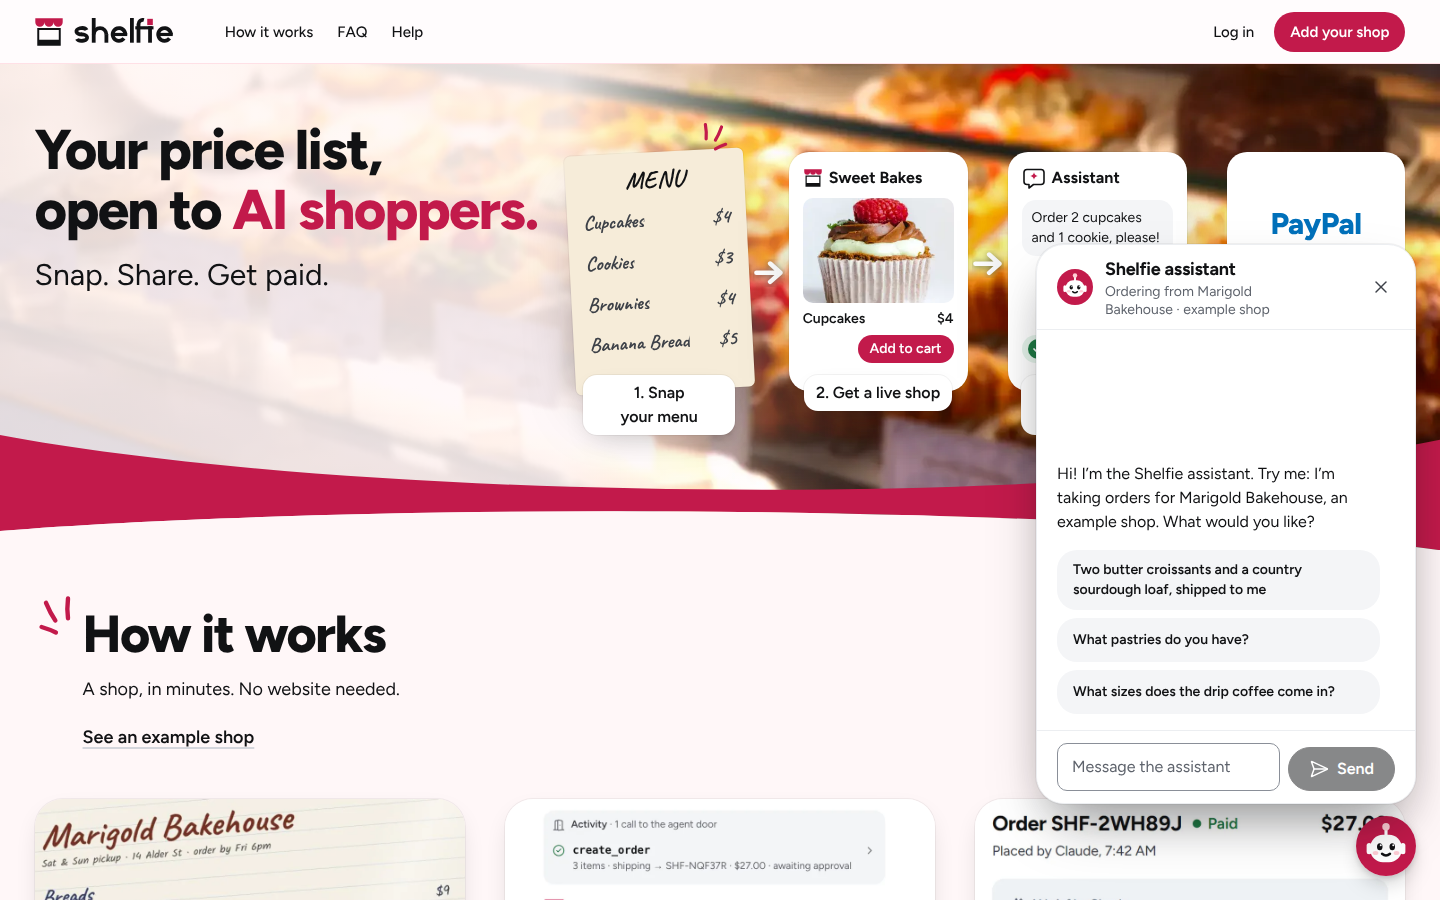
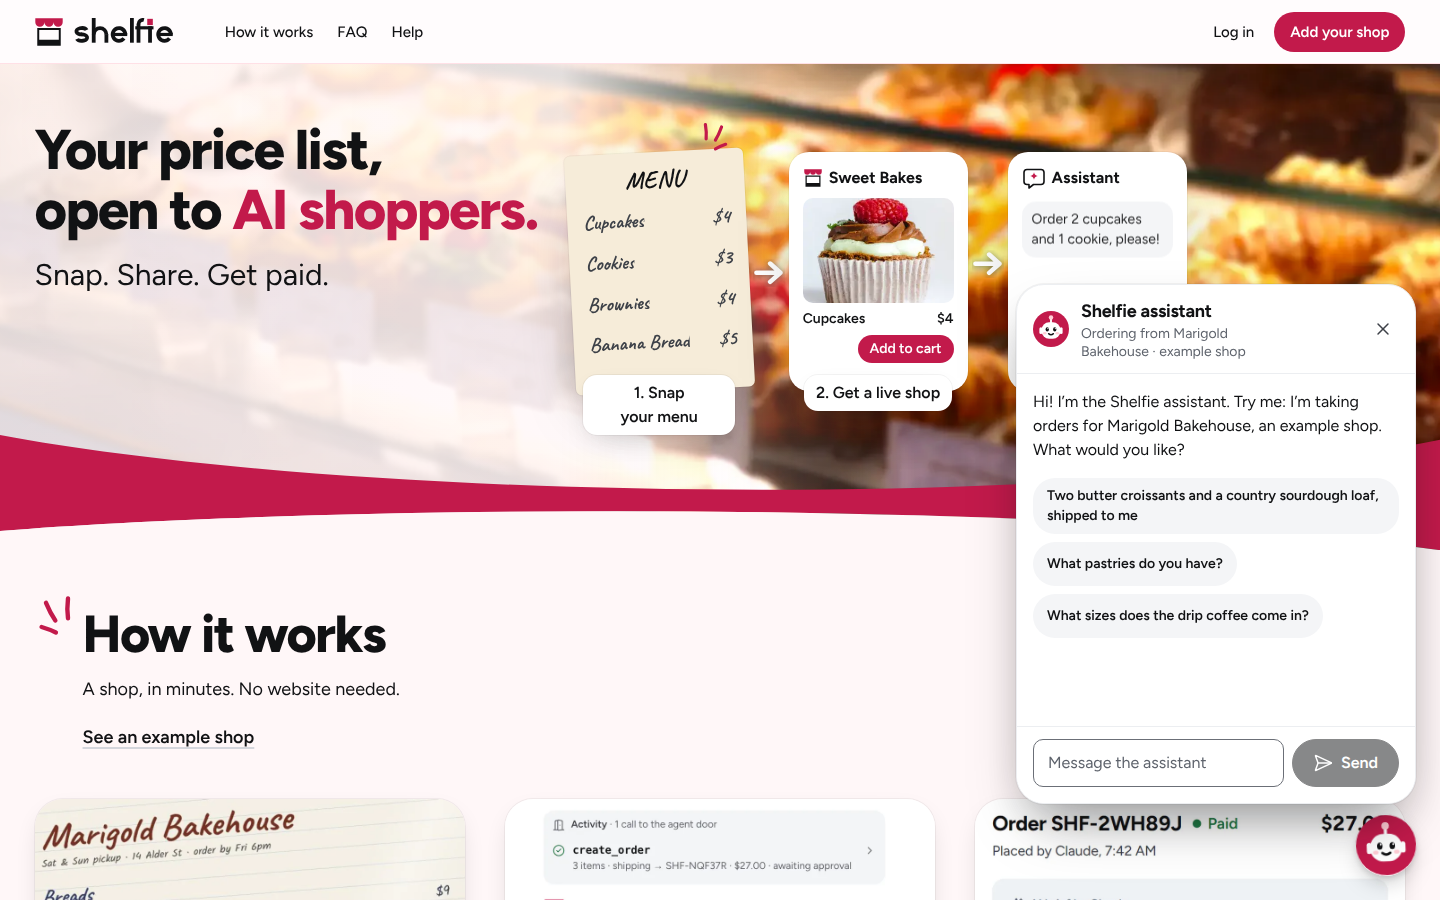
Home chat: proportion checks at 1024-1920 in e2e, measurements (docs/judge/chat-r8.md), after shots, decisions and DESIGN

diff --git a/e2e/home-chat.spec.ts b/e2e/home-chat.spec.ts
@@ -58,6 +58,40 @@ async function expectSoundClearOfLauncher(page: Page) {
   expect(hit).toBe(true);
 }
 
+/**
+ * The desktop panel's proportions: clear of the hero headline, the greeting at the top of the log, the starters as
+ * chips of at most two lines, the message box and Send on one row, and the panel on the launcher's right and bottom edges.
+ */
+async function expectBalancedPanel(page: Page) {
+  await page.waitForTimeout(400);
+  const m = await page.evaluate(() => {
+    const rect = (el: Element | null | undefined) => el!.getBoundingClientRect();
+    const panel = document.querySelector('[data-home-chat-panel]')!;
+    const p = rect(panel);
+    const h = rect(document.querySelector('h1'));
+    const header = rect(panel.querySelector('[data-assistant-header]'));
+    const greeting = rect(panel.querySelector('[data-assistant-log] p'));
+    const launcher = rect(document.querySelector('.home-chat-launcher'));
+    const box = rect(panel.querySelector('textarea'));
+    const send = rect(panel.querySelector('button[type="submit"]'));
+    const chips = [...panel.querySelectorAll('[data-starters] button')].map((b) => rect(b).height);
+    return {
+      overlap: !(p.right <= h.left || p.left >= h.right || p.bottom <= h.top || p.top >= h.bottom),
+      greetingGap: greeting.top - header.bottom,
+      rightEdges: [innerWidth - p.right, innerWidth - launcher.right],
+      oneRow: Math.abs(box.bottom - send.bottom) < 1 && send.left > box.right,
+      sendHeight: send.height,
+      tallestChip: Math.max(...chips),
+    };
+  });
+  expect(m.overlap).toBe(false);
+  expect(m.greetingGap).toBeLessThanOrEqual(20);
+  expect(m.rightEdges[0]).toBe(m.rightEdges[1]);
+  expect(m.oneRow).toBe(true);
+  expect(m.sendHeight).toBeGreaterThanOrEqual(44);
+  expect(m.tallestChip).toBeLessThanOrEqual(60);
+}
+
 test.describe('at 1440 px', () => {
   test.use({ viewport: DESKTOP });
 
@@ -81,8 +115,9 @@ test.describe('at 1440 px', () => {
     await expect(chat.getByRole('textbox', { name: 'Message to the assistant' })).toBeFocused();
     await expect(launcher.locator('[data-unread]')).toHaveCount(0);
     const box = await chat.boundingBox();
-    expect(Math.round(box!.width)).toBe(380);
-    expect(Math.round(box!.height)).toBe(560);
+    expect(Math.round(box!.width)).toBe(400);
+    expect(Math.round(box!.height)).toBe(520);
+    await expectBalancedPanel(page);
     await a11y(page);
 
     await page.keyboard.press('Escape');
@@ -144,7 +179,27 @@ test.describe('at 1440 px', () => {
     const box = await panel(page).boundingBox();
     expect(box!.y).toBeGreaterThanOrEqual(header!.y + header!.height);
     expect(await ctaClear()).toBe(true);
+    await expectBalancedPanel(page);
   });
+
+  for (const [width, height] of [[1024, 768], [1280, 800], [1920, 1080]] as const) {
+    test(`at ${width} x ${height} the panel keeps its proportions and stays clear of the headline`, async ({ page }) => {
+      await page.setViewportSize({ width, height });
+      await page.goto('/?chat=0');
+      await settle(page);
+      await page.getByRole('button', { name: LAUNCHER, exact: true }).click();
+      await expect(panel(page)).toBeVisible();
+      const box = await panel(page).boundingBox();
+      expect(Math.round(box!.width)).toBe(400);
+      expect(Math.round(box!.height)).toBe(520);
+      await expectBalancedPanel(page);
+      if (SHOTS && width !== 1024) {
+        await page.locator('textarea').blur();
+        await page.mouse.move(0, 0);
+        await page.screenshot({ path: `${SHOTS}/chat-${width}.png` });
+      }
+    });
+  }
 
   test('a starter goes to the assistant and its streamed answer shows', async ({ page }) => {
     const bodies = await replayConsole(page);

diff --git a/docs/judge/chat-r8.md b/docs/judge/chat-r8.md
@@ -1,0 +1,42 @@
+# Home chat proportions, run 8 (10 Nov 2026)
+
+The owner: "Improve bot split up (not good ratio in desktop)." Before (run 7, `docs/preview/chat-1440.png` at 85a7b8c): a
+380 x 560 panel whose log was bottom-anchored, so the greeting and three full-width starter rows sat on the composer under
+a ~130 px empty band; header padding 10/20 px, log and footer 20 px.
+
+After: a 400 x 520 panel (`min(32.5rem, viewport - header - launcher - gaps)` tall), log top-aligned while the
+conversation is short (a long one scrolls as before), starters as wrapping chips, 16 px inset on every side of header,
+log and footer, the message box and a 48 px Send on one row. The phone bottom sheet is unchanged.
+
+Measured on a production build (`next start`), panel opened from the launcher on `/?chat=0`, with
+`/tmp/r8chat/shots.mjs` (Playwright, `getBoundingClientRect`). Edges are distances from the viewport's right/bottom
+edges. Paddings are top/right/bottom/left. "Greeting gap" is the greeting's top minus the log's top (the log's own
+padding). The h1 rect is its box (`w-fit` since this run, so it is the text's extent).
+
+| Viewport | Panel w x h | Header / log / footer h | Padding header · log · footer | Greeting gap | Starter chips (w/lines) | Box + Send | Right/bottom edges | h1 rect vs panel |
+|---|---|---|---|---|---|---|---|---|
+| 1280x800 | 400 x 520 | 89 / 352 / 77 | 12px/16px/12px/16px · 16px/16px/16px/16px · 12px/16px/16px/16px | 16 | 366 px/2 lines, 204 px/1 line, 290 px/1 line | 251x48 + 107x48, one row: yes | panel 24/96, launcher 24/24 | 31..479 x 115..223: clear |
+| 1440x900 | 400 x 520 | 89 / 352 / 77 | 12px/16px/12px/16px · 16px/16px/16px/16px · 12px/16px/16px/16px | 16 | 366 px/2 lines, 204 px/1 line, 290 px/1 line | 251x48 + 107x48, one row: yes | panel 24/96, launcher 24/24 | 35..538 x 120..241: clear |
+| 1920x1080 | 400 x 520 | 89 / 352 / 77 | 12px/16px/12px/16px · 16px/16px/16px/16px · 12px/16px/16px/16px | 16 | 366 px/2 lines, 204 px/1 line, 290 px/1 line | 251x48 + 107x48, one row: yes | panel 24/96, launcher 24/24 | 280..783 x 120..241: clear |
+| 1366x657 | 400 x 441 | 89 / 273 / 77 | 12px/16px/12px/16px · 16px/16px/16px/16px · 12px/16px/16px/16px | 16 | 366 px/2 lines, 204 px/1 line, 290 px/1 line | 251x48 + 107x48, one row: yes | panel 24/96, launcher 24/24 | 33..512 x 119..234: clear |
+| 1024x768 | 400 x 520 | 89 / 352 / 77 | 12px/16px/12px/16px · 16px/16px/16px/16px · 12px/16px/16px/16px | 16 | 366 px/2 lines, 204 px/1 line, 290 px/1 line | 251x48 + 107x48, one row: yes | panel 24/96, launcher 24/24 | 25..492 x 105..217: clear |
+| 390x844 | 390 x 717 | 85 / 559 / 73 | 10px/20px/10px/20px · 16px/20px/16px/20px · 12px/20px/12px/20px | 291 | 335 px/2 lines, 335 px/1 line, 335 px/1 line | 235x48 + 107x44, one row: yes | panel 0/0, launcher 20/20 | 20..343 x 92..170: overlaps |
+
+Notes:
+
+- Right edges: panel and launcher are both 24 px from the right at every desktop width. Bottom: the launcher is 24 px
+  from the bottom; the panel ends 12 px above the launcher's top (24 + 60 + 12 = 96), so the two share one column.
+- 1366 x 657: the panel is shortened to 441 px so it stays under the sticky header (its top is 120, header bottom 64);
+  it does not auto-open on a screen under 700 px tall (unchanged).
+- 1024 x 768: before `w-fit` the h1 box spanned 25..1000 and met the panel, though its text ended at 492; now clear.
+- Proportions: header 17 %, log 68 %, footer 15 % of the 520 px panel.
+- 390 x 844 is the phone bottom sheet, unchanged by design (it is a modal sheet over the hero, so the h1 overlap is
+  expected; its log stays bottom-anchored near the thumb).
+- With a conversation (recorded first turn replayed), the log scrolls (scrollHeight 562 in a 296 px viewport) and the
+  composer stays on one row.
+
+Checks in `e2e/home-chat.spec.ts` (`expectBalancedPanel`): 400 x 520 at 1024, 1280, 1440 and 1920; panel clear of the
+h1; greeting within 20 px of the header; right edges equal; box and Send bottom-aligned on one row; Send at least 44 px;
+no starter chip taller than 60 px.
+
+Screens: `docs/preview/chat-1280.png`, `chat-1440.png`, `chat-1920.png`, `chat-390.png` (production build).

diff --git a/docs/DESIGN.md b/docs/DESIGN.md
@@ -231,7 +231,7 @@ Built from the owner's reference image (run 6), and the one place the rules abov
 - **Type:** body at least 16 px on phones and 18 px from 1280 px, meta at least 14 px. The handwriting on the paper menu (Caveat) is the only other typeface, and only there.
 - **Icons and step images:** How it works shows no icons: each step has one focal region of Shelfie itself, cropped about 480 CSS px wide so its text reads at every width (`public/landing/step-*.webp`, 960×720, 4:3, rounded `rounded-2xl` frame with `shadow-md`, lazy `<img>` with width and height), stacked above its text up to `lg` (at most `max-w-md`) and in three columns from `lg`, since three columns at `md` shrink the frames below the phone's. Re-shoot them from the app if those screens change. `landing/art.tsx` keeps the accent marks and the hero's assistant mark: a neutral speech bubble and spark, never an AI company's mark; PayPal appears as blue text.
 - **Sound switch:** the footer's control reads `Sound on` / `Sound off` beside its speaker icon, in an outlined 44 px pill; its accessible name is `Sound` with `aria-pressed`.
-- **Home chat:** a round pomegranate launcher at the bottom right (above `env(safe-area-inset-bottom)`) with Shelfie's own bot drawing (`landing/BotMark.tsx`: white head, ink eyes, blush cheeks and antenna; never a stock icon or an AI company's mark) and an ink unread dot until first opened. It opens the real buyer console for the example shop: a 380 x 560 panel anchored above it from 1024 px (auto-opens once per session after 4 s, never taking focus, and only on screens at least 700 px tall; its height stops short of the sticky header), a bottom sheet below 1024 px, where a speech bubble ("Hi! Want to try ordering?") replaces the auto-open. The footer gains bottom padding on the home page so its last row (the Sound switch) ends above the launcher. Entrances are CSS opacity/transform only.
+- **Home chat:** a round pomegranate launcher at the bottom right (above `env(safe-area-inset-bottom)`) with Shelfie's own bot drawing (`landing/BotMark.tsx`: white head, ink eyes, blush cheeks and antenna; never a stock icon or an AI company's mark) and an ink unread dot until first opened. It opens the real buyer console for the example shop: a 400 x 520 panel anchored above it from 1024 px, right-aligned with the launcher and 12 px above it (its log reads from the top while the conversation is short, the starters are wrapping chips, one 16 px inset on every side, the message box and a 48 px Send on one row; it never covers the hero headline; auto-opens once per session after 4 s, never taking focus, and only on screens at least 700 px tall; its height stops short of the sticky header), a bottom sheet below 1024 px, where a speech bubble ("Hi! Want to try ordering?") replaces the auto-open. The footer gains bottom padding on the home page so its last row (the Sound switch) ends above the launcher. Entrances are CSS opacity/transform only.
 
 ## Rules
 

diff --git a/docs/DECISIONS.md b/docs/DECISIONS.md
@@ -331,3 +331,12 @@ Brainstorming questions were answered by the coordinator from CLAUDE.md, docs/ID
 - **The home chat auto-opens only when the viewport is at least 700 px tall, and its panel height subtracts the 5rem header.** Reason: at 1366x657 a 560 px (or even header-clipped) panel covered "Log in" and "Add your shop"; below 700 px the panel would be under ~30rem, too cramped to open uninvited, so the launcher and its dot wait for the visitor.
 - **The footer reserves the launcher's corner with padding on its charcoal band (`body:has([data-home-chat]) footer[data-site-chrome] > div`), not a spacer in the chat.** Reason: padding on the band keeps the charcoal to the page's end, and the rule applies only where the chat renders.
 - **The phone bar keeps `Log in` beside the compact `Add your shop` and the menu button (version A and B).** Reason: the landing spec requires both ways in within the first screen at 390 px, and all three fit at 360 px and up.
+
+## Run 8 (10 Nov 2026)
+
+- **The home chat's desktop panel is 400 x 520 (was 380 x 560).** Reason: the owner found the tall, narrow panel badly proportioned; 400 x 520 fits beside the hero headline at 1024 to 1920 px wide and keeps the log about two thirds of the panel.
+- **The home panel's log is top-aligned (`[data-assistant-log] { justify-content: flex-start }`), the shop dock and phone sheet keep theirs bottom-anchored.** Reason: a short conversation in a floating panel read as an empty band over a greeting sitting on the composer; a long one still scrolls, and the shop's console was out of scope.
+- **The home panel's starters are wrapping chips (auto width, 44 px least height, 22 px radius), not full-width rows.** Reason: short questions no longer stretch across the panel, and the longest one still takes two lines at most.
+- **One 16 px inset on every side of the home panel's header, log and footer, and the Send button is 48 px tall to match the message box.** Reason: the 20/10 px mix looked uneven in a 400 px panel, and a shorter Send beside the box read as squeezed.
+- **The hero `h1` is `w-fit`.** Reason: as a block it spanned the whole row at 1024 px, so its box met the chat panel although its text ends 108 px left of it; the text does not move.
+- **`data-assistant-log` on AssistantShell's scroller content and `data-starters` on the starter list.** Reason: stable hooks for the home chat's scoped CSS, with no visual change to the shop's console.
